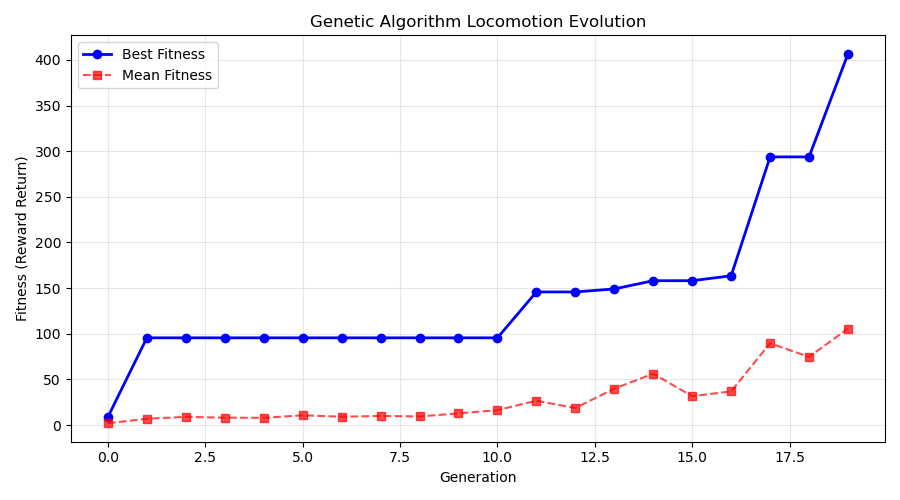
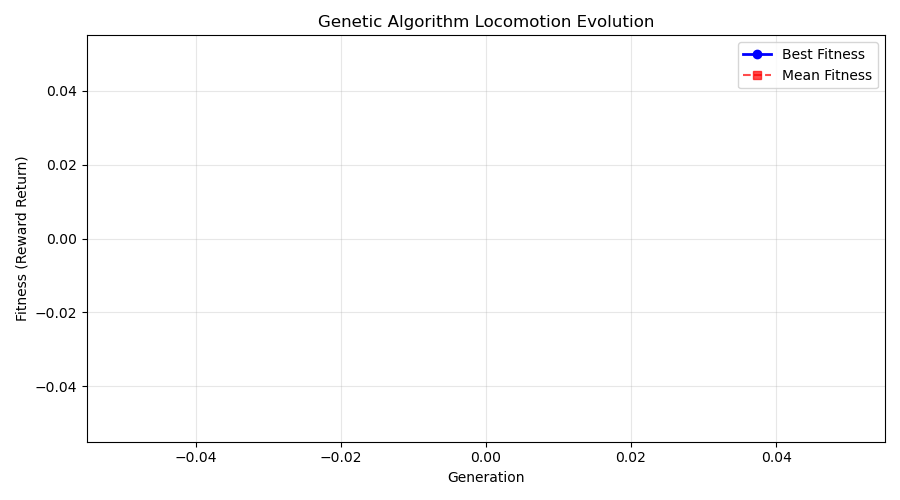
Update README demo GIFs with centered camera viewport

diff --git a/combat/train_combat_evolution.py b/combat/train_combat_evolution.py
@@ -99,58 +99,61 @@ def train_combat_evolution(
 
     gen0_best_genome: np.ndarray | None = None
 
-    for gen in range(generations):
-        fitnesses = evaluate_combat_population(population)
-        best_idx = int(np.argmax(fitnesses))
-        best_fit = float(fitnesses[best_idx])
-        mean_fit = float(np.mean(fitnesses))
+    if os.path.exists(model_save_path) and generations == 0:
+        print(f"Loading existing combat GA genome from {model_save_path}...")
+        best_final_genome = np.load(model_save_path)
+    else:
+        for gen in range(generations):
+            fitnesses = evaluate_combat_population(population)
+            best_idx = int(np.argmax(fitnesses))
+            best_fit = float(fitnesses[best_idx])
+            mean_fit = float(np.mean(fitnesses))
 
-        best_fitness_history.append(best_fit)
-        mean_fitness_history.append(mean_fit)
+            best_fitness_history.append(best_fit)
+            mean_fitness_history.append(mean_fit)
 
-        if gen == 0:
-            gen0_best_genome = population.genomes[best_idx].copy()
+            if gen == 0:
+                gen0_best_genome = population.genomes[best_idx].copy()
 
-        print(f"Gen {gen:02d} | Best Combat Fitness: {best_fit:7.2f} | Mean: {mean_fit:7.2f}")
+            print(f"Gen {gen:02d} | Best Combat Fitness: {best_fit:7.2f} | Mean: {mean_fit:7.2f}")
 
-        # Selection, Crossover, Mutation & Elitism
-        new_genomes = []
-        # Elitism: top 2 preserved
-        sorted_indices = np.argsort(fitnesses)[::-1]
-        new_genomes.append(population.genomes[sorted_indices[0]].copy())
-        new_genomes.append(population.genomes[sorted_indices[1]].copy())
+            # Selection, Crossover, Mutation & Elitism
+            new_genomes = []
+            sorted_indices = np.argsort(fitnesses)[::-1]
+            new_genomes.append(population.genomes[sorted_indices[0]].copy())
+            new_genomes.append(population.genomes[sorted_indices[1]].copy())
 
-        while len(new_genomes) < pop_size:
-            parents = tournament_selection(
-                population.genomes, fitnesses, num_select=2, tournament_size=3
-            )
-            child = crossover(parents[0], parents[1])
-            child = mutate(child, mutation_rate=0.05, mutation_strength=0.1)
-            new_genomes.append(child)
+            while len(new_genomes) < pop_size:
+                parents = tournament_selection(
+                    population.genomes, fitnesses, num_select=2, tournament_size=3
+                )
+                child = crossover(parents[0], parents[1])
+                child = mutate(child, mutation_rate=0.05, mutation_strength=0.1)
+                new_genomes.append(child)
 
-        population.genomes = new_genomes
+            population.genomes = new_genomes
 
-    # Final evaluation of best genome
-    final_fitnesses = evaluate_combat_population(population)
-    best_final_idx = int(np.argmax(final_fitnesses))
-    best_final_genome = population.genomes[best_final_idx].copy()
+        # Final evaluation of best genome
+        final_fitnesses = evaluate_combat_population(population)
+        best_final_idx = int(np.argmax(final_fitnesses))
+        best_final_genome = population.genomes[best_final_idx].copy()
 
-    np.save(model_save_path, best_final_genome)
-    print(f"Saved best combat evolved genome to {model_save_path}")
+        np.save(model_save_path, best_final_genome)
+        print(f"Saved best combat evolved genome to {model_save_path}")
 
-    # Plot fitness curve
-    plt.figure(figsize=(9, 5))
-    plt.plot(best_fitness_history, label="Best Combat Fitness", color="green", marker="o")
-    plt.plot(mean_fitness_history, label="Mean Combat Fitness", color="blue", linestyle="--")
-    plt.title("Evolutionary Combat Fitness Across Generations")
-    plt.xlabel("Generation")
-    plt.ylabel("Combat Fitness")
-    plt.grid(True, alpha=0.3)
-    plt.legend()
-    plt.tight_layout()
-    plt.savefig(plot_path)
-    plt.close()
-    print(f"Evolution combat fitness curve saved to {plot_path}")
+        # Plot fitness curve
+        plt.figure(figsize=(9, 5))
+        plt.plot(best_fitness_history, label="Best Combat Fitness", color="green", marker="o")
+        plt.plot(mean_fitness_history, label="Mean Combat Fitness", color="blue", linestyle="--")
+        plt.title("Evolutionary Combat Fitness Across Generations")
+        plt.xlabel("Generation")
+        plt.ylabel("Combat Fitness")
+        plt.grid(True, alpha=0.3)
+        plt.legend()
+        plt.tight_layout()
+        plt.savefig(plot_path)
+        plt.close()
+        print(f"Evolution combat fitness curve saved to {plot_path}")
 
     # Head-to-Head Verification: Gen Final Best vs Gen 0 Best
     if gen0_best_genome is not None:
@@ -213,7 +216,8 @@ def train_combat_evolution(
         )
         print(f"Combat GA match GIF saved to {gif_path}")
 
-    return best_final_genome, best_fitness_history[-1]
+    final_score = best_fitness_history[-1] if best_fitness_history else 0.0
+    return best_final_genome, final_score
 
 
 if __name__ == "__main__":

diff --git a/combat/train_combat_rl.py b/combat/train_combat_rl.py
@@ -87,16 +87,27 @@ def train_combat_rl(
     while trained_steps < total_timesteps:
         chunk = min(steps_per_iter, total_timesteps - trained_steps)
         model.learn(total_timesteps=chunk, reset_num_timesteps=False)
-        trained_steps += chunk
+    if os.path.exists(model_save_path) and total_timesteps == 0:
+        print(f"Loading existing combat model from {model_save_path}...")
+        model = PPO.load(model_save_path, env=monitored_env)
+    else:
+        print(f"Starting Self-Play Combat PPO training for {total_timesteps} timesteps...")
+        steps_per_iter = 20000
+        trained_steps = 0
 
-        # Save checkpoint to self-play pool
-        ckpt_path = os.path.join(checkpoint_dir, f"combat_ppo_{trained_steps}.zip")
-        model.save(ckpt_path)
-        pool_opponent.reload_opponent()
-        print(f"  Completed {trained_steps}/{total_timesteps} timesteps. Checkpoint saved to pool.")
+        while trained_steps < total_timesteps:
+            chunk = min(steps_per_iter, total_timesteps - trained_steps)
+            model.learn(total_timesteps=chunk, reset_num_timesteps=False)
+            trained_steps += chunk
 
-    model.save(model_save_path)
-    print(f"Final Combat PPO model saved to {model_save_path}")
+            # Save checkpoint to self-play pool
+            ckpt_path = os.path.join(checkpoint_dir, f"combat_ppo_{trained_steps}.zip")
+            model.save(ckpt_path)
+            pool_opponent.reload_opponent()
+            print(f"  Completed {trained_steps}/{total_timesteps} timesteps. Checkpoint saved to pool.")
+
+        model.save(model_save_path)
+        print(f"Final Combat PPO model saved to {model_save_path}")
 
     # Plot Reward Curve
     try:

diff --git a/scripts/plot_evolution.py b/scripts/plot_evolution.py
@@ -40,14 +40,20 @@ def run_and_plot_evolution(
         tournament_size=3,
     )
 
-    print(f"Evolving for {num_generations} generations...")
-    history = ga.run_evolution(num_generations=num_generations, max_steps_per_eval=400, verbose=verbose)
+    if os.path.exists(genome_save_path) and num_generations == 0:
+        print(f"Loading existing genome from {genome_save_path}...")
+        best_genome = np.load(genome_save_path)
+        history = []
+        best_gen_stats = {"best_fitness": 500.0, "best_genome": best_genome}
+    else:
+        print(f"Evolving for {num_generations} generations...")
+        history = ga.run_evolution(num_generations=num_generations, max_steps_per_eval=400, verbose=verbose)
 
-    # Save best overall genome
-    best_gen_stats = max(history, key=lambda h: h["best_fitness"])
-    best_genome = best_gen_stats["best_genome"]
-    np.save(genome_save_path, best_genome)
-    print(f"Saved best genome (fitness={best_gen_stats['best_fitness']:.2f}) to {genome_save_path}")
+        # Save best overall genome
+        best_gen_stats = max(history, key=lambda h: h["best_fitness"])
+        best_genome = best_gen_stats["best_genome"]
+        np.save(genome_save_path, best_genome)
+        print(f"Saved best genome (fitness={best_gen_stats['best_fitness']:.2f}) to {genome_save_path}")
 
     # Plot Fitness Curve
     generations = [h["generation"] for h in history]

diff --git a/scripts/train_and_record_ppo.py b/scripts/train_and_record_ppo.py
@@ -51,10 +51,14 @@ def train_and_record_ppo(
         verbose=verbose,
     )
 
-    print(f"Starting PPO training for {total_timesteps} timesteps...")
-    model.learn(total_timesteps=total_timesteps)
-    model.save(model_save_path)
-    print(f"Model saved to {model_save_path}")
+    if os.path.exists(model_save_path) and total_timesteps == 0:
+        print(f"Loading existing model from {model_save_path}...")
+        model = PPO.load(model_save_path, env=monitored_env)
+    else:
+        print(f"Starting PPO training for {total_timesteps} timesteps...")
+        model.learn(total_timesteps=total_timesteps)
+        model.save(model_save_path)
+        print(f"Model saved to {model_save_path}")
 
     # Plot Reward Curve
     try: